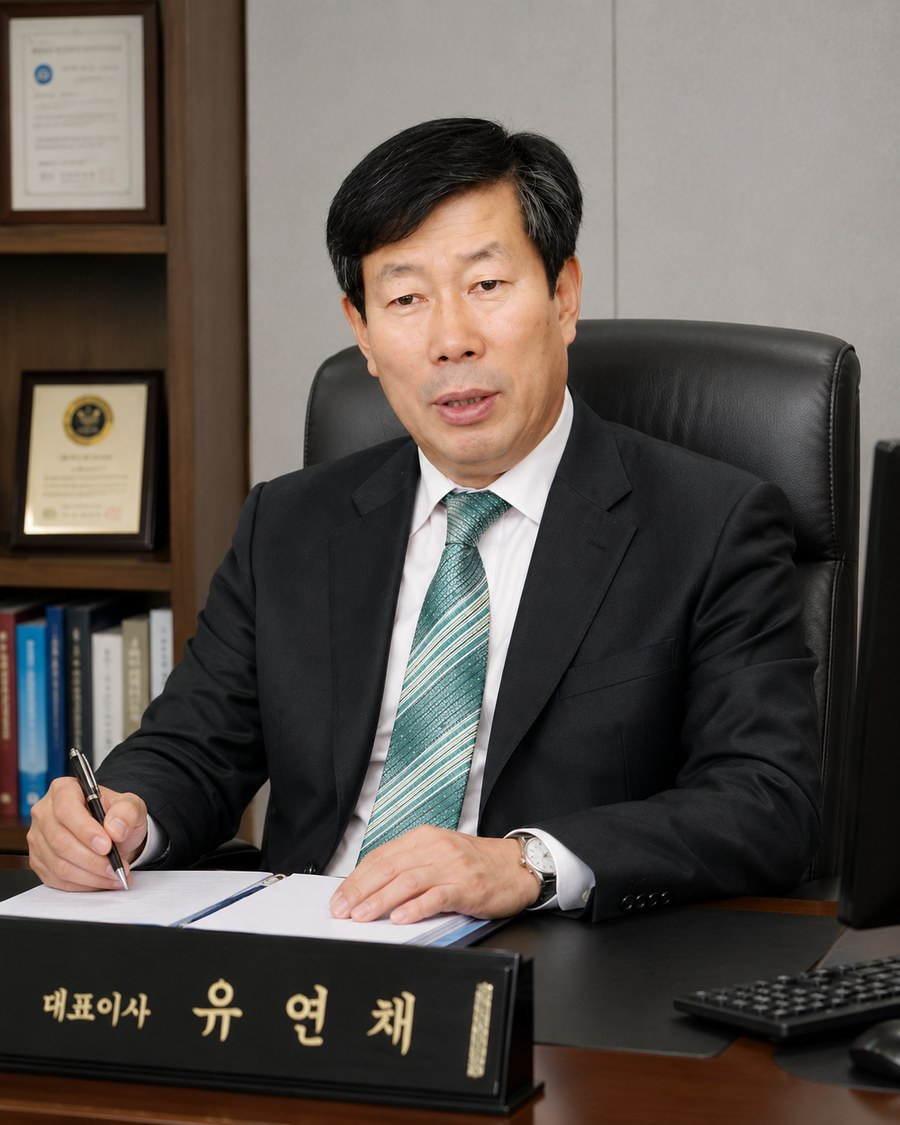
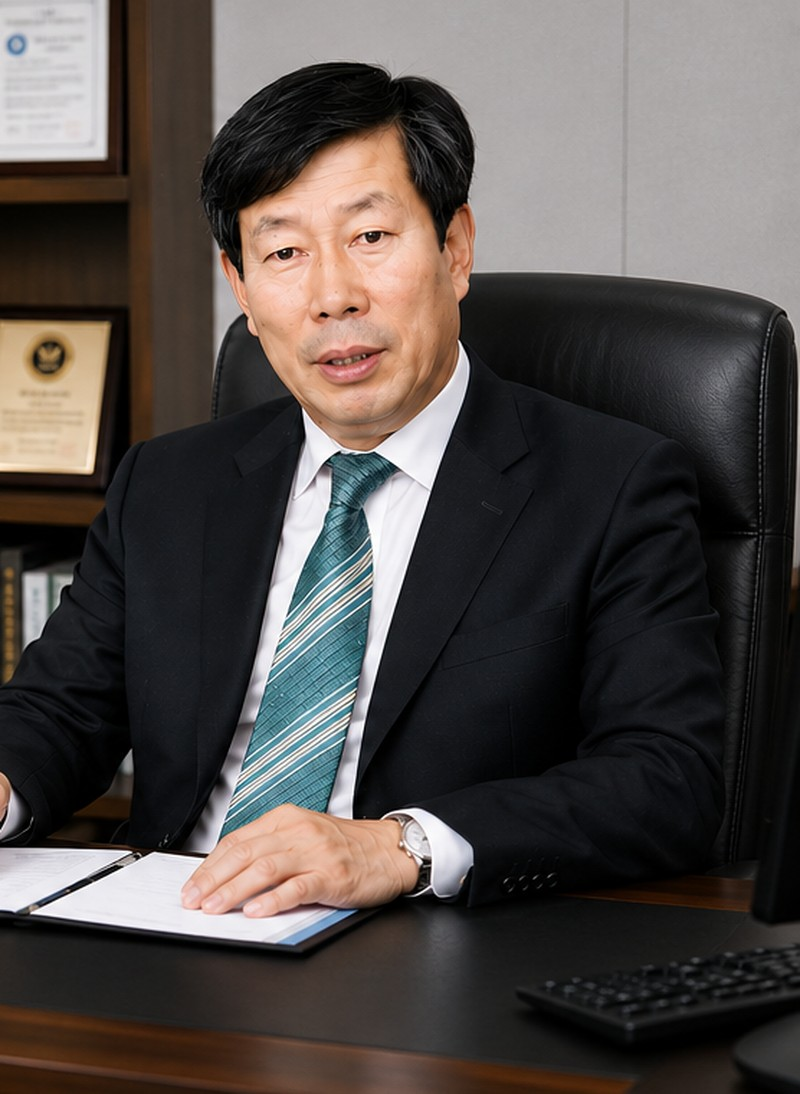
CEO 인사말 대표 포트레이트 교체: 새 시안에서 인물 사진 추출(정돈된 스튜디오 컷), ceo-portrait.jpg 갱신·버전 ?v=20260731-2

diff --git a/company.html b/company.html
@@ -158,7 +158,7 @@
           </ul>
         </div>
         <div class="greeting__media">
-          <img src="assets/images/site/ceo-portrait.jpg?v=20260731" alt="한국탄산화학㈜ 대표이사 유연채">
+          <img src="assets/images/site/ceo-portrait.jpg?v=20260731-2" alt="한국탄산화학㈜ 대표이사 유연채">
         </div>
       </div>
       <div class="container">
